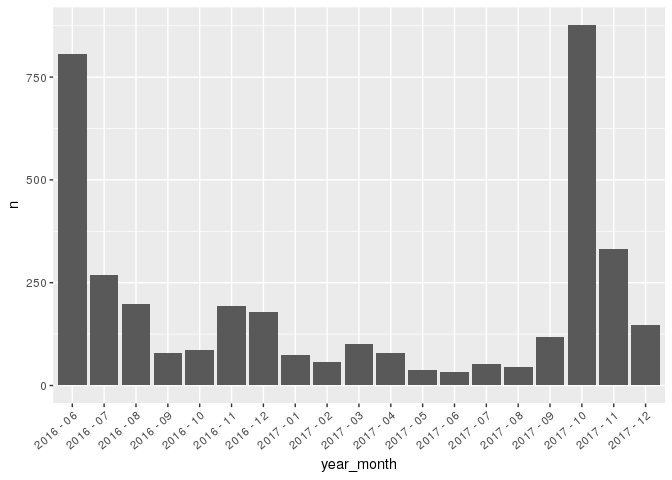
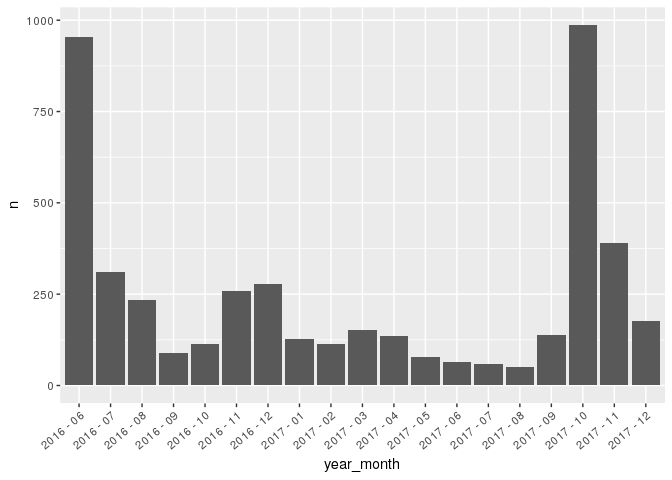
Added graph

diff --git a/Code/Error___Else.md b/Code/Error___Else.md
@@ -107,7 +107,8 @@ a %>%
   distinct(id) %>%
   summarize(n = n()) %>%
   ggplot(aes(x = year_month, y = n, fill = is_odd)) + 
-  geom_col()
+  geom_col()+
+  theme(axis.text.x = element_text(angle = 40, hjust = 1))
 ```
 
 ![](Error___Else_files/figure-markdown_github/unnamed-chunk-10-1.png)
@@ -121,8 +122,7 @@ a %>%
   ggplot(aes(x = year_month, y = prop, fill = is_odd)) + 
   geom_col()+
   theme(axis.text.x = element_text(angle = 40, hjust = 1)) +
-  scale_fill_manual(values = c("white", "gray"))+
-  theme(axis.text.x = element_text(angle = 40, hjust = 1))
+  scale_fill_manual(values = c("white", "gray"))
 ```
 
 ![](Error___Else_files/figure-markdown_github/unnamed-chunk-10-2.png)
@@ -146,7 +146,7 @@ In <- In_4_ %>%
   rename(Date = date)
 ```
 
-### Distribution of messages sent in messages with correct area code but never hear back over time
+### Distribution of messages sent in messages with correct area code and correct format but never hear back over time
 
 ``` r
 bb <- In %>%
@@ -159,14 +159,23 @@ bb <- In %>%
 ``` r
 pattern <- "^[0-9]{5}\\s+[0-9]{1}$"
 bb <- bb %>%
-  mutate(correct = grepl(pattern, Message)) %>%
-  filter(correct == TRUE)
+  mutate(correct = grepl(pattern, Message))
+bb %>%
+  group_by(correct) %>%
+  summarize(n = n())
 ```
+
+    ## # A tibble: 2 x 2
+    ##   correct     n
+    ##   <lgl>   <int>
+    ## 1 F        9162
+    ## 2 T       52454
 
 ``` r
 bb %>%
   group_by(year_month) %>%
   filter(id %in% nhb) %>%
+  filter(correct == TRUE) %>%
   filter(area_correct == "real") %>%
   group_by(area_correct, year_month) %>%
   summarize(n = n()) %>%
@@ -239,12 +248,12 @@ area
     ## # A tibble: 6 x 2
     ##    area     n
     ##   <int> <int>
-    ## 1 62267  1094
-    ## 2 84217   965
-    ## 3 46135   817
-    ## 4 67179   673
-    ## 5 23177   601
-    ## 6 62211   499
+    ## 1 62267  1149
+    ## 2 84217  1014
+    ## 3 46135   877
+    ## 4 67179   770
+    ## 5 23177   646
+    ## 6 62110   547
 
 ``` r
 qwq <- as.vector(area$area)
@@ -301,6 +310,38 @@ bb %>%
 
 ![](Error___Else_files/figure-markdown_github/unnamed-chunk-23-1.png)
 
+### Distribution of new users each month (includes whether they dropped within the same month)
+
+``` r
+gg <- bb %>%
+  group_by(id) %>%
+  summarize(min = min(Date), max = max(Date)) %>%
+  mutate(Yearmin = year(min), monthmin = month(min), Yearmax = year(max), monthmax = month(max)) %>%
+  mutate(monthmin = ifelse(nchar(as.character(monthmin)) == 1, paste("0", sep = "", as.character(monthmin)), as.character(monthmin))) %>%
+  mutate(monthmax = ifelse(nchar(as.character(monthmax)) == 1, paste("0", sep = "", as.character(monthmax)), as.character(monthmax))) %>%
+  mutate(year_month_min = paste(as.character(Yearmin), "-", monthmin))%>%
+  mutate(year_month_max = paste(as.character(Yearmax), "-", monthmax))%>%
+  mutate(drop_same_month = year_month_min == year_month_max) %>%
+  group_by(year_month_min, drop_same_month) %>%
+  summarize(n = n()) 
+gg %>%
+  ggplot(aes(x = year_month_min, y = n, fill = drop_same_month)) + geom_col() +
+  theme(axis.text.x = element_text(angle = 40, hjust = 1))
+```
+
+![](Error___Else_files/figure-markdown_github/unnamed-chunk-24-1.png)
+
+``` r
+gg %>%
+  filter(year_month_min != "2017 - 12") %>%
+  group_by(year_month_min) %>%
+  mutate(prop = n/sum(n)) %>%
+  ggplot(aes(x = year_month_min, y = prop, fill = drop_same_month))+geom_col()+
+  theme(axis.text.x = element_text(angle = 40, hjust = 1))
+```
+
+![](Error___Else_files/figure-markdown_github/unnamed-chunk-25-1.png)
+
 ### Distribution of Those occured only once
 
 ``` r
@@ -321,7 +362,7 @@ LTS_yearmonth %>%
   theme(axis.text.x = element_text(angle = 40, hjust = 1))
 ```
 
-![](Error___Else_files/figure-markdown_github/unnamed-chunk-24-1.png)
+![](Error___Else_files/figure-markdown_github/unnamed-chunk-26-1.png)
 
 ``` r
 LTS_yearmonth %>%
@@ -337,7 +378,7 @@ LTS_yearmonth %>%
   theme(axis.text.x = element_text(angle = 40, hjust = 1)) 
 ```
 
-![](Error___Else_files/figure-markdown_github/unnamed-chunk-25-1.png)
+![](Error___Else_files/figure-markdown_github/unnamed-chunk-27-1.png)
 
 ``` r
 LTS_yearmonth %>%
@@ -354,4 +395,4 @@ LTS_yearmonth %>%
   scale_fill_manual(values=c("mistyrose2", "lightskyblue", "lightcoral"))
 ```
 
-![](Error___Else_files/figure-markdown_github/unnamed-chunk-26-1.png)
+![](Error___Else_files/figure-markdown_github/unnamed-chunk-28-1.png)
